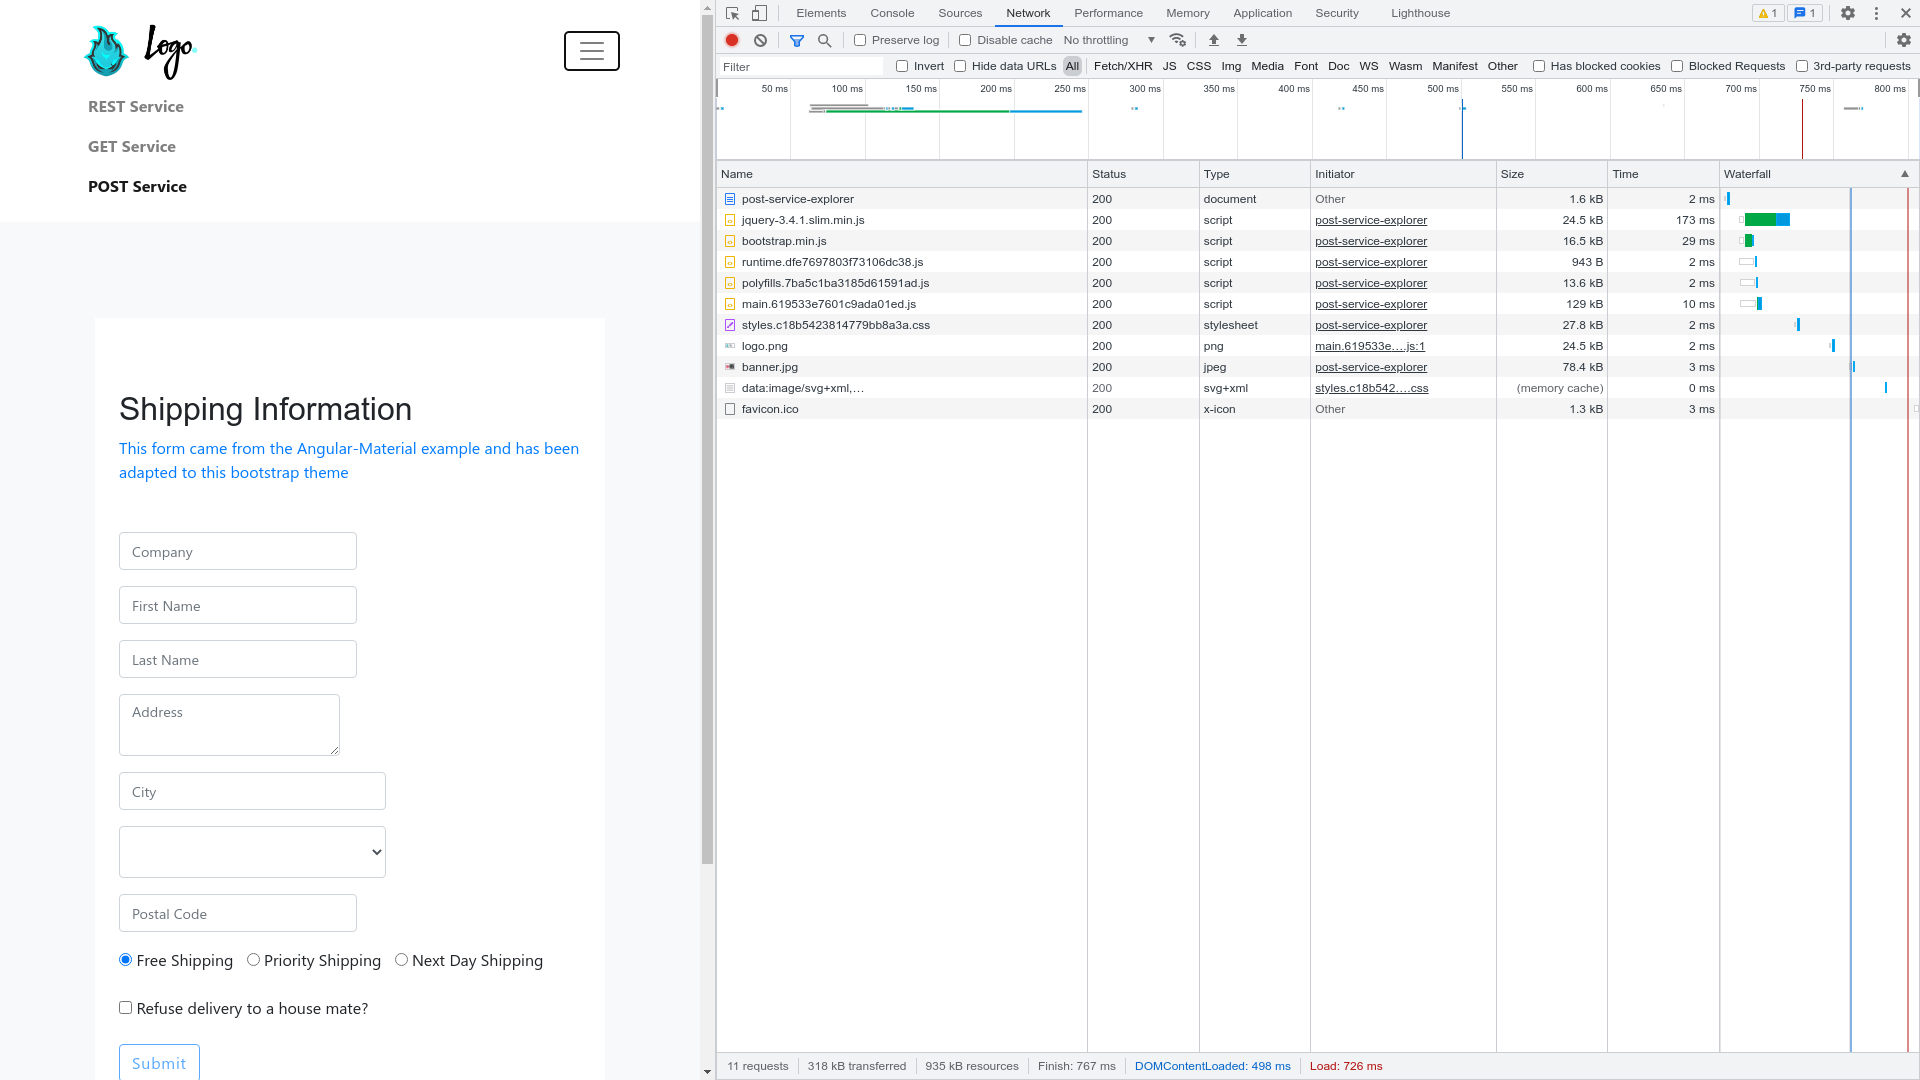
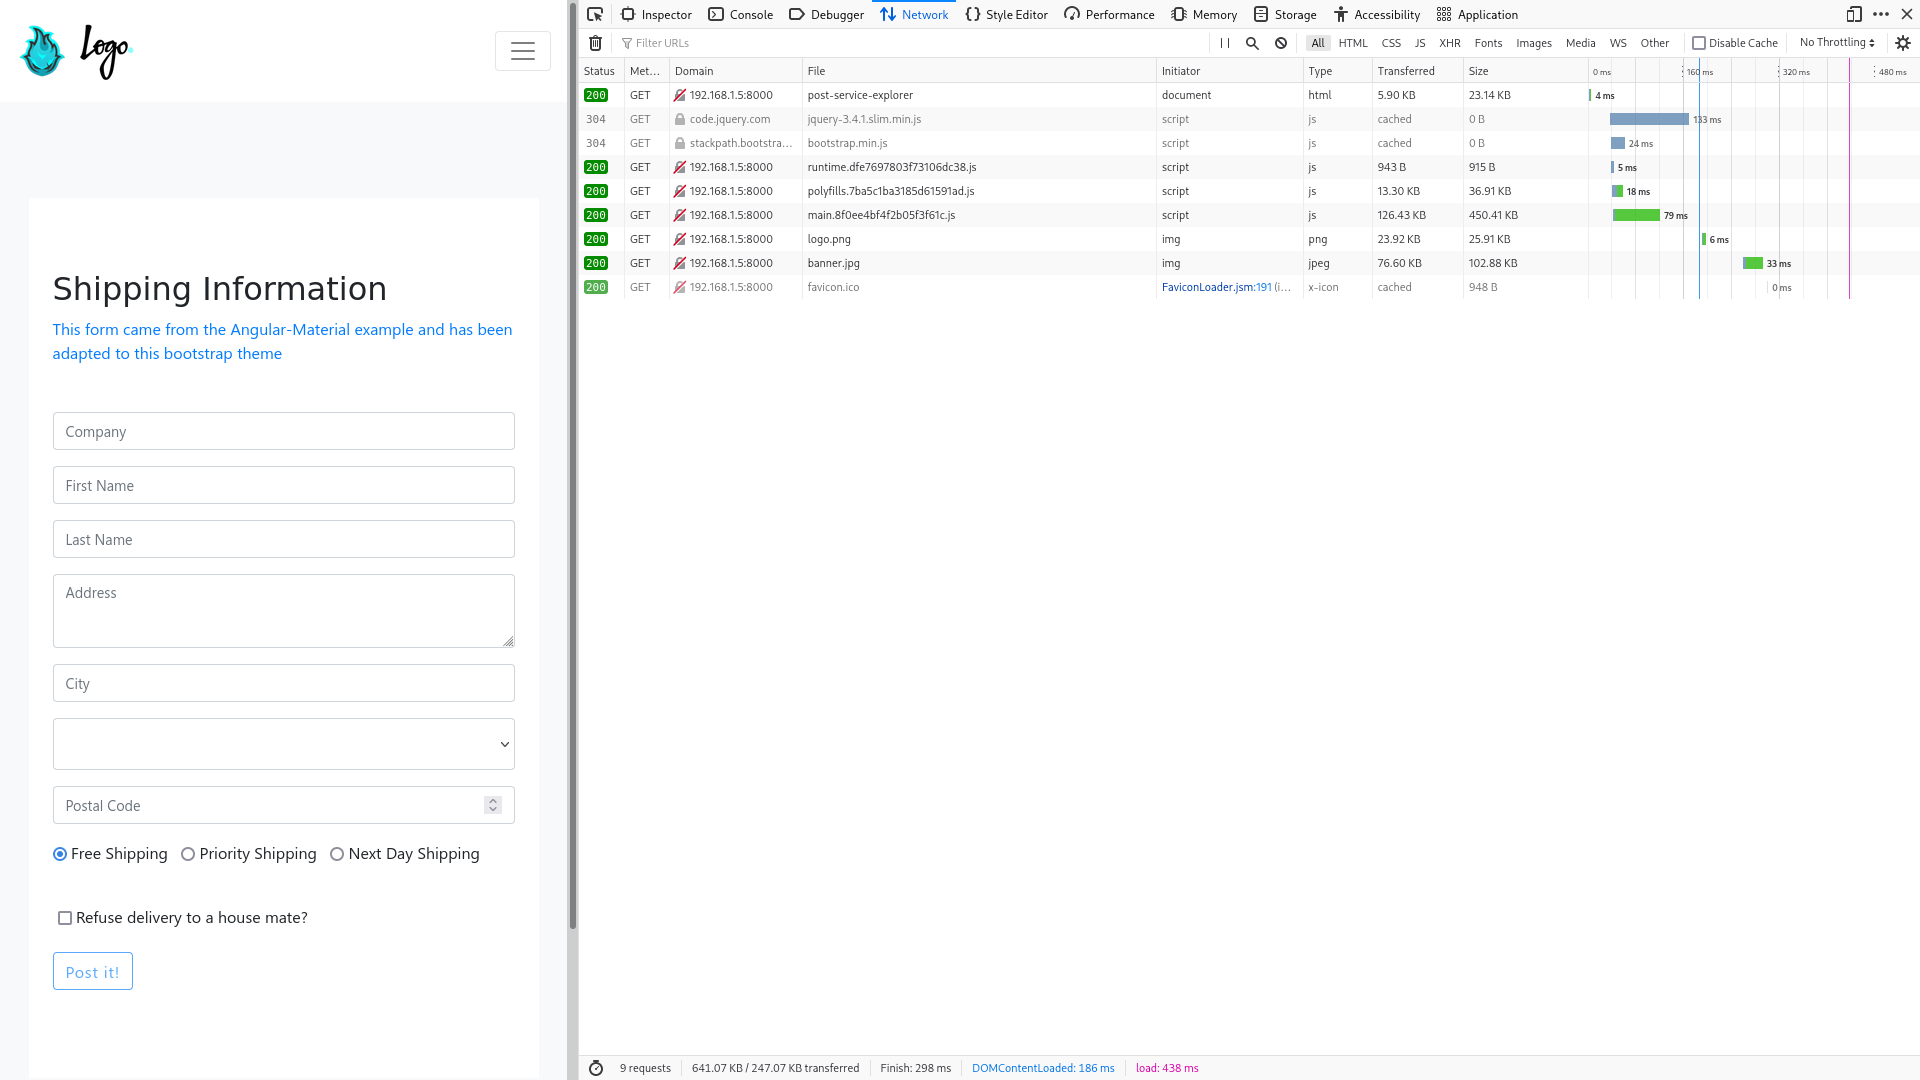
web-backend-rocket: updated load time screenshots after angular universal addition

diff --git a/web-backend-rocket/README.md b/web-backend-rocket/README.md
@@ -50,7 +50,9 @@ Inspect ```build.rs``` for embedding options.
 ![rust+angular+bootstrap 1.png](screenshots/rust+angular+bootstrap%201.png)
 ![rust+angular+bootstrap 2.png](screenshots/rust+angular+bootstrap%202.png)
 ![rust+angular+bootstrap 3.png](screenshots/rust+angular+bootstrap%203.png)
+(186ms to load & render what is needed to present -- bootstrap themes still requires loading & executing bootstrap.js)
 
 ## Google Material Theme
 ![rust+angular+material 1.png](screenshots/rust+angular+material%201.png)
 ![rust+angular+material 2.png](screenshots/rust+angular+material%202.png)
+(only 44ms needed to show the content -- 13ms to load index.html + 31ms to render it. After being presented, Angular is loaded and after 664ms we have a fully working website)
